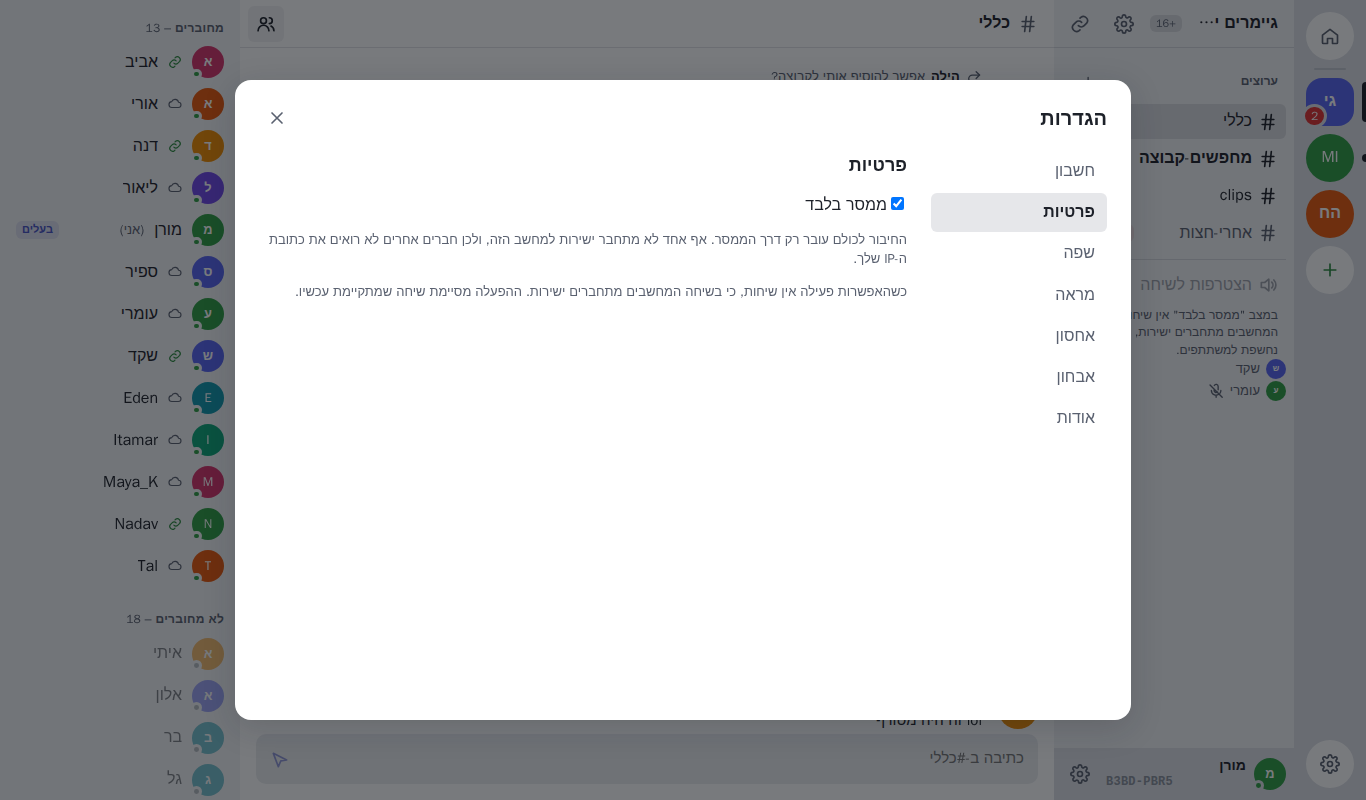
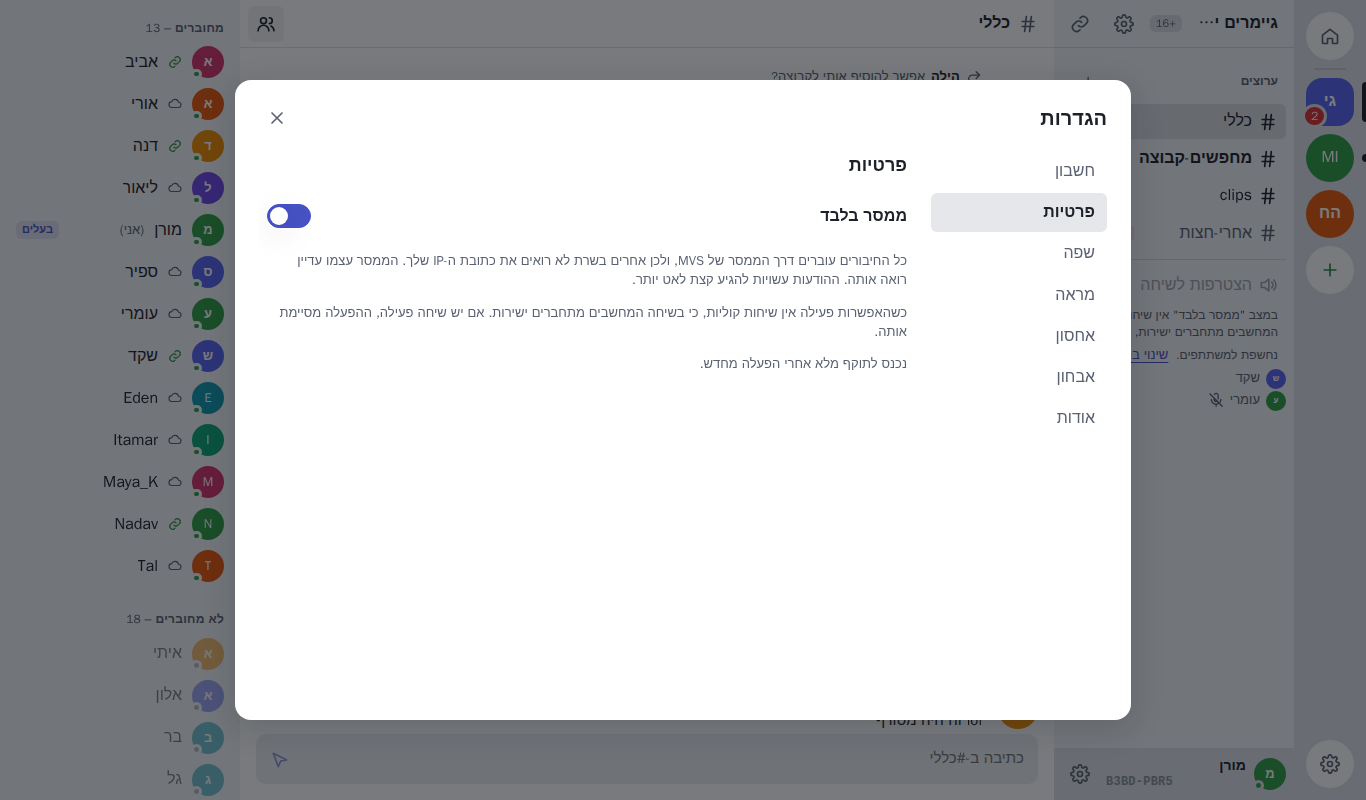
UI #273: honest relay-only copy (the relay sees the IP; slower; full effect after restart); a real switch; 'Change in Settings' link; confirm in a call

Changed region(s): [[0.1845, 0.25, 0.6764, 0.4062], [0.8302, 0.4375, 0.9531, 0.5312], [0.5227, 0.4375, 0.6457, 0.4688]]

diff --git a/ui/src/screens/settings/SettingsScreen.tsx b/ui/src/screens/settings/SettingsScreen.tsx
@@ -1,4 +1,4 @@
-import { useEffect, useState } from 'react';
+import { useEffect, useRef, useState } from 'react';
 import { FormattedMessage, FormattedNumber, useIntl } from 'react-intl';
 import { useAppStore } from '../../app/App';
 import { FONT_MAX, FONT_MIN, SCALE_MAX, SCALE_MIN, useSettings, type Theme } from '../../app/settings';
@@ -15,12 +15,26 @@ const SECTIONS: Section[] = ['account', 'privacy', 'language', 'appearance', 'st
 const GB = 1024 ** 3;
 const LIMIT_STEPS = [1, 2, 5, 10, 20, 50].map((g) => g * GB);
 
-export function SettingsScreen({ open, onClose, onCheckWords }: { open: boolean; onClose: () => void; onCheckWords: () => void }) {
+export function SettingsScreen({
+  open,
+  request,
+  onClose,
+  onCheckWords,
+}: {
+  open: boolean;
+  /** Open at this section, e.g. Privacy from the voice room's "Change in Settings". */
+  request?: { section: string; at: number } | null;
+  onClose: () => void;
+  onCheckWords: () => void;
+}) {
   const intl = useIntl();
   const [section, setSection] = useState<Section>(() => {
     const s = new URLSearchParams(location.search).get('settings');
     return SECTIONS.includes(s as Section) ? (s as Section) : 'appearance';
   });
+  useEffect(() => {
+    if (request && SECTIONS.includes(request.section as Section)) setSection(request.section as Section);
+  }, [request]);
 
   return (
     <Dialog open={open} onClose={onClose} title={intl.formatMessage({ id: 'settings.title' })} className="settings-dialog">
@@ -51,7 +65,7 @@ export function SettingsScreen({ open, onClose, onCheckWords }: { open: boolean;
           {section === 'storage' && <StorageSection />}
           {section === 'diagnostics' && <DiagnosticsSection />}
           {section === 'about' && <AboutSection />}
-          {section === 'privacy' && <PrivacySection />}
+          {section === 'privacy' && <PrivacySection focus={request?.section === 'privacy' ? request.at : undefined} />}
         </section>
       </div>
     </Dialog>
@@ -344,12 +358,25 @@ function DiagnosticsSection() {
 
 // Relay-only (GAP-6r, #272), per device: nobody connects to me directly, so
 // members never see my IP address; calls are off while it is on.
-function PrivacySection() {
+function PrivacySection({ focus }: { focus?: number }) {
   const store = useAppStore();
+  const intl = useIntl();
   const relayOnly = useStore(store, (s) => s.relayOnly);
+  const inCall = useStore(store, (s) => !!s.call);
   const [busy, setBusy] = useState(false);
   const [failed, setFailed] = useState(false);
-  const toggle = async (on: boolean) => {
+  // Turning it on ends a call in progress: ask first, in the row.
+  const [confirm, setConfirm] = useState(false);
+  const switchRef = useRef<HTMLInputElement>(null);
+  useEffect(() => {
+    if (!focus) return;
+    // After the dialog opens (showModal moves focus first).
+    const t = setTimeout(() => switchRef.current?.focus());
+    return () => clearTimeout(t);
+  }, [focus]);
+
+  const apply = async (on: boolean) => {
+    setConfirm(false);
     setBusy(true);
     setFailed(false);
     try {
@@ -362,24 +389,45 @@ function PrivacySection() {
   };
   return (
     <div className="stack">
-      <label className="check">
-        <input
-          type="checkbox"
-          role="switch"
-          checked={relayOnly}
-          disabled={busy}
-          aria-describedby="relay-only-hint relay-only-calls"
-          onChange={(e) => void toggle(e.target.checked)}
-        />
+      <label className="switch-row">
         <span>
           <FormattedMessage id="privacy.relayOnly.label" />
         </span>
+        <input
+          ref={switchRef}
+          type="checkbox"
+          role="switch"
+          className="switch"
+          checked={relayOnly}
+          disabled={busy}
+          aria-describedby="relay-only-hint relay-only-calls relay-only-restart"
+          onChange={(e) => (e.target.checked && inCall ? setConfirm(true) : void apply(e.target.checked))}
+        />
       </label>
+      {confirm && (
+        <div className="confirm" role="alertdialog" aria-label={intl.formatMessage({ id: 'privacy.relayOnly.confirm' })}>
+          <p>
+            <FormattedMessage id="privacy.relayOnly.confirm" />
+          </p>
+          <div className="actions">
+            <button type="button" className="danger small" autoFocus onClick={() => void apply(true)}>
+              <FormattedMessage id="privacy.relayOnly.turnOn" />
+            </button>
+            <button type="button" className="secondary small" onClick={() => setConfirm(false)}>
+              <FormattedMessage id="common.cancel" />
+            </button>
+          </div>
+        </div>
+      )}
       <p id="relay-only-hint" className="muted small">
         <FormattedMessage id="privacy.relayOnly.hint" />
       </p>
       <p id="relay-only-calls" className="muted small">
         <FormattedMessage id="privacy.relayOnly.calls" />
+      </p>
+      {/* Until the node starts relay-only and drops open direct connections (GAP-6r), a restart is what makes it complete. */}
+      <p id="relay-only-restart" className="muted small">
+        <FormattedMessage id="privacy.relayOnly.restart" />
       </p>
       {failed && (
         <p className="error small" role="alert">

diff --git a/ui/src/test/relayOnly.test.tsx b/ui/src/test/relayOnly.test.tsx
@@ -2,12 +2,17 @@
 // front (from AppInfo and the voice room, not only after a refused join), and
 // the sanitizer for the new `relayOnly` fields.
 
-import { act, fireEvent, render, screen, waitFor } from '@testing-library/react';
-import { describe, expect, it } from 'vitest';
+import { act, fireEvent, render, screen, waitFor, within } from '@testing-library/react';
+import { describe, expect, it, vi } from 'vitest';
 import { App } from '../app/App';
 import type { Settings } from '../app/settings';
 import { cleanCall, cleanVoiceRoom } from '../core/sanitize';
 import { MockCore, type MockOptions } from '../core/mock';
+
+// jsdom has no WebRTC: an idle engine, as in voice.test.tsx.
+vi.mock('../voice', () => ({
+  useVoiceEngine: () => ({ ready: true, speaking: {}, peerFailed: {}, setMicMuted: () => {}, inputs: [], outputs: [], setInput: () => {}, setOutput: () => {} }),
+}));
 
 const settings: Settings = { locale: 'en', theme: 'light', uiScale: 1, fontSize: 15 };
 
@@ -35,7 +40,7 @@ describe('relay-only', () => {
     fireEvent.click(screen.getByRole('button', { name: 'Privacy' }));
     const toggle = screen.getByRole('switch', { name: 'Relay only' }) as HTMLInputElement;
     expect(toggle.checked).toBe(false);
-    expect(toggle.getAttribute('aria-describedby')).toBe('relay-only-hint relay-only-calls');
+    expect(toggle.getAttribute('aria-describedby')).toBe('relay-only-hint relay-only-calls relay-only-restart');
 
     await act(async () => {
       fireEvent.click(toggle);
@@ -48,6 +53,37 @@ describe('relay-only', () => {
     });
     expect(toggle.checked).toBe(false);
     expect(roomEntry().getAttribute('aria-disabled')).toBeNull();
+  });
+
+  it('"Change in Settings" under the reason opens Privacy with focus on the switch', async () => {
+    await setup({ relayOnly: true });
+    fireEvent.click(await screen.findByRole('button', { name: 'Change in Settings' }));
+    const toggle = await screen.findByRole('switch', { name: 'Relay only' });
+    await waitFor(() => expect(document.activeElement).toBe(toggle));
+  });
+
+  it('in a call, turning it on asks first; confirming ends the call', async () => {
+    const { core } = await setup();
+    const [server] = await core.listServers();
+    const room = await core.getVoiceRoom(server.id);
+    await act(async () => {
+      await core.joinCall(room.roomId);
+    });
+    fireEvent.click(screen.getAllByRole('button', { name: 'Settings' })[0]);
+    fireEvent.click(screen.getByRole('button', { name: 'Privacy' }));
+    const toggle = screen.getByRole('switch', { name: 'Relay only' }) as HTMLInputElement;
+    fireEvent.click(toggle);
+    const ask = screen.getByRole('alertdialog', { name: 'Your call will end. Turn it on?' });
+    expect(toggle.checked).toBe(false);
+    fireEvent.click(within(ask).getByRole('button', { name: 'Cancel' }));
+    expect(screen.queryByRole('alertdialog')).toBeNull();
+    fireEvent.click(toggle);
+    await act(async () => {
+      fireEvent.click(within(screen.getByRole('alertdialog')).getByRole('button', { name: 'Turn on' }));
+    });
+    expect(toggle.checked).toBe(true);
+    // The call ended: the room is back to "Join chat", now off.
+    await waitFor(() => expect(roomEntry().getAttribute('aria-disabled')).toBe('true'));
   });
 
   it('the switch shows the stored value on open', async () => {

diff --git a/ui/src/styles/app.css b/ui/src/styles/app.css
@@ -2597,3 +2597,60 @@ kbd {
   white-space: nowrap;
   text-align: match-parent;
 }
+
+/* A real switch (relay-only, #273): a 44×24 track with a knob; the whole row is the label. */
+.switch-row {
+  display: flex;
+  align-items: center;
+  justify-content: space-between;
+  gap: 1rem;
+  min-height: 2.75rem;
+  cursor: pointer;
+  font-weight: 600;
+}
+input.switch {
+  appearance: none;
+  flex: none;
+  position: relative;
+  width: 2.75rem;
+  height: 1.5rem;
+  margin: 0;
+  border-radius: 999px;
+  background: var(--bg-active);
+  border: 1px solid var(--border);
+  cursor: pointer;
+  transition: background 0.15s;
+}
+input.switch::before {
+  content: '';
+  position: absolute;
+  inset-block-start: 0.125rem;
+  inset-inline-start: 0.125rem;
+  width: 1.125rem;
+  height: 1.125rem;
+  border-radius: 50%;
+  background: var(--bg-elevated);
+  box-shadow: var(--shadow);
+  transition: inset-inline-start 0.15s;
+}
+input.switch:checked {
+  background: var(--accent);
+  border-color: var(--accent);
+}
+input.switch:checked::before {
+  inset-inline-start: calc(100% - 1.25rem);
+}
+input.switch:focus-visible {
+  outline: 2px solid var(--focus);
+  outline-offset: 2px;
+}
+input.switch:disabled {
+  opacity: 0.6;
+  cursor: default;
+}
+@media (prefers-reduced-motion: reduce) {
+  input.switch,
+  input.switch::before {
+    transition: none;
+  }
+}

diff --git a/ui/src/screens/shell/Shell.tsx b/ui/src/screens/shell/Shell.tsx
@@ -31,6 +31,7 @@ export function Shell() {
   const notice = useStore(store, (s) => s.notice);
   const updateNote = useStore(store, (s) => s.updateNote);
   const flash = useStore(store, (s) => s.flash);
+  const settingsRequest = useStore(store, (s) => s.settingsRequest);
   const serverGone = useStore(store, (s) => s.serverGone);
   const uiDir = useUiDir();
   const intl = useIntl();
@@ -114,6 +115,10 @@ export function Shell() {
     const t = setTimeout(() => store.clearServerGone(), 6000);
     return () => clearTimeout(t);
   }, [serverGone, store]);
+
+  useEffect(() => {
+    if (settingsRequest) setSettingsOpen(true);
+  }, [settingsRequest]);
 
   useEffect(() => {
     if (!flash) return;
@@ -325,7 +330,12 @@ export function Shell() {
           <RecoveryCheck onChecked={closeCheck} onShowAgain={() => setShowWords(true)} />
         )}
       </Dialog>
-      <SettingsScreen open={settingsOpen} onClose={() => setSettingsOpen(false)} onCheckWords={() => setDialog('check')} />
+      <SettingsScreen
+        open={settingsOpen}
+        request={settingsRequest}
+        onClose={() => setSettingsOpen(false)}
+        onCheckWords={() => setDialog('check')}
+      />
 
       {/* Toasts stack in one column, so two at once never overlap. */}
       <div className="toasts">

diff --git a/ui/src/app/store.ts b/ui/src/app/store.ts
@@ -83,6 +83,8 @@ export interface StoreState {
    * voice room, and also learned from a call ended or a join refused for it.
    */
   relayOnly: boolean;
+  /** Something asked for Settings at a section (e.g. "Change in Settings" under the voice room). */
+  settingsRequest: { section: string; at: number } | null;
   /** A short confirmation toast (an i18n id), e.g. "Copied" after a menu copy. */
   flash: { id: string; at: number } | null;
   /** Bumped when any message window changes, so readers re-render. */
@@ -103,6 +105,7 @@ export class Store {
     voiceRooms: {},
     relayOnly: false,
     flash: null,
+    settingsRequest: null,
     serverGone: null,
     messagesVersion: 0,
   };
@@ -240,6 +243,10 @@ export class Store {
 
   showFlash(id: string): void {
     this.set({ flash: { id, at: Date.now() } });
+  }
+
+  openSettings(section: string): void {
+    this.set({ settingsRequest: { section, at: Date.now() } });
   }
 
   clearFlash(): void {

diff --git a/ui/src/screens/shell/CallBar.tsx b/ui/src/screens/shell/CallBar.tsx
@@ -169,6 +169,14 @@ export function VoiceRoomEntry({ serverId, myId, engine }: { serverId: Id; myId:
       {blocked && (
         <p id={reasonId} className="voice-room-reason">
           <FormattedMessage id={blocked} />
+          {relayOnly && (
+            <>
+              {' '}
+              <button type="button" className="link small" onClick={() => store.openSettings('privacy')}>
+                <FormattedMessage id="privacy.relayOnly.open" />
+              </button>
+            </>
+          )}
         </p>
       )}
       {!blocked && callError && <CallError />}
